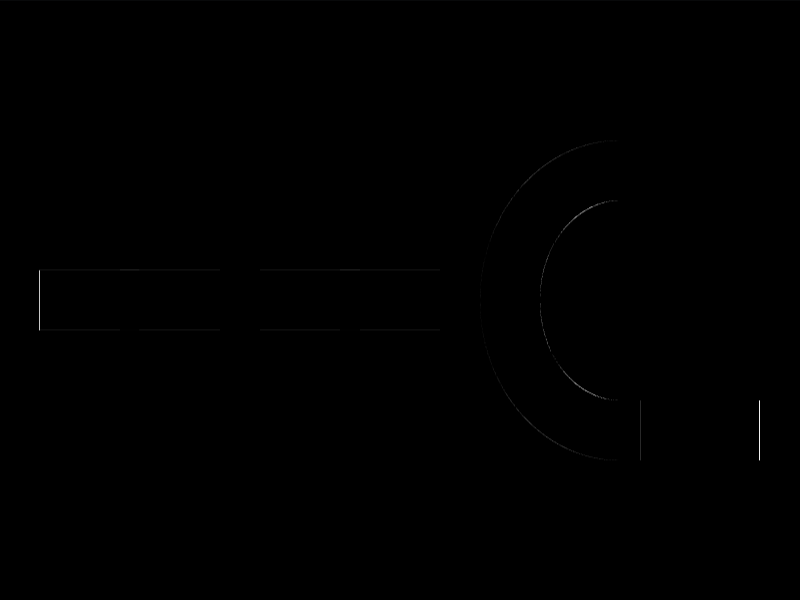
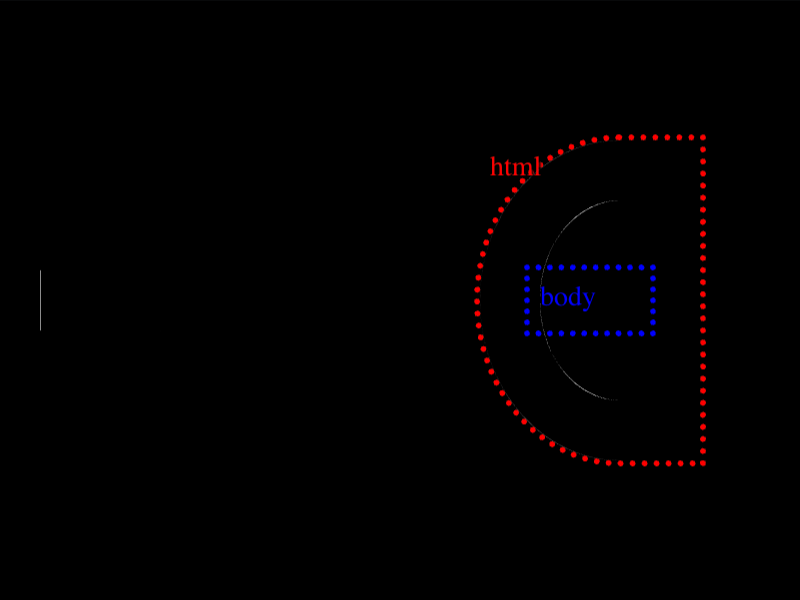
Score: 682.21, Characters: 166 (100.00% match) - CSSHub

diff --git a/Daily Targets/2026-09-28/README.md b/Daily Targets/2026-09-28/README.md
@@ -22,30 +22,29 @@ Challenge: <https://cssbattle.dev/play/sPBh2rqUt3ilhlL5Rdhj>
 ## Code
 
 ```html
-<p><style>&>*{margin:70 50 0 240;height:100;border-radius:95%0 0 95%/75%;border:32q solid;*{height:30;box-shadow:-265q 37q,-70vh 37q,-35vw 37q,-25vw 37q,63q 25vw,53q 25vw,5ch 25vw#FFF
+<style>&{margin:70 50 0 240;height:100;border-radius:95%0 0 95%/75%;border:32q solid;*{margin:35-5;box-shadow:-259q 0,-215px 0,-45vh 0,-35vh 0,55px 65px,45px 65px#FFF
 ```
 
 ## Prettified code
 
 ```html
-<p>
 <style>
-& > * {
+& {
   margin: 70 50 0 240;
   height: 100;
   border-radius: 95% 0 0 95% / 75%;
   border: 32Q solid;
   * {
-    height: 30;
+    margin: 35 -5;
     box-shadow:
-      -265Q 37Q,
-      -70vh 37Q,
-      -35vw 37Q,
-      -25vw 37Q,
-      63Q 25vw,
-      53Q 25vw,
-      5ch 25vw #fff;
+      -259Q 0,
+      -215px 0,
+      -45vh 0,
+      -35vh 0,
+      55px 65px,
+      45px 65px #fff;
   }
 }
+
 </style>
 ```

diff --git a/README.md b/README.md
@@ -261,7 +261,7 @@ Note - I have not yet complete all the challenges.
 <li><a href="./Daily%20Targets/2026-09-20/">Sep 20, 2026</a> (156 Characters)</li>
 <li><a href="./Daily%20Targets/2026-09-21/">Sep 21, 2026</a> (138 Characters)</li>
 <li><a href="./Daily%20Targets/2026-09-22/">Sep 22, 2026</a> (166 Characters)</li>
-<li><a href="./Daily%20Targets/2026-09-28/">Sep 28, 2026</a> (183 Characters)</li>
+<li><a href="./Daily%20Targets/2026-09-28/">Sep 28, 2026</a> (166 Characters)</li>
 </ul>
 </details>
 </li>
